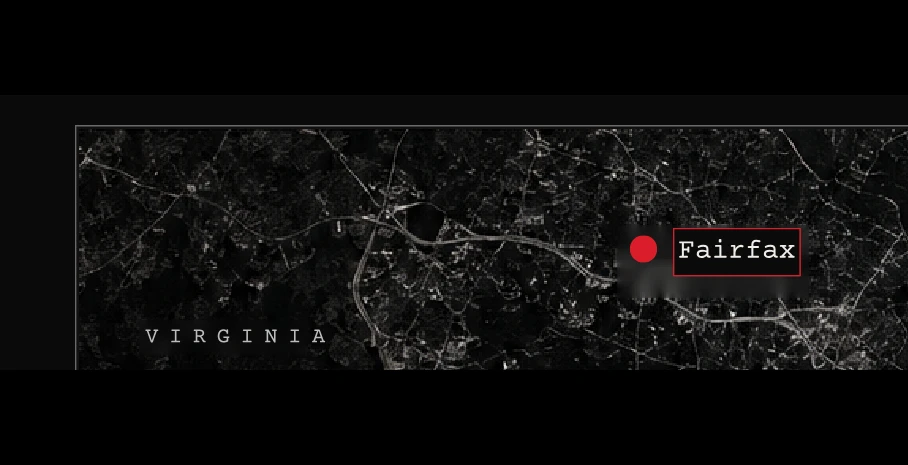
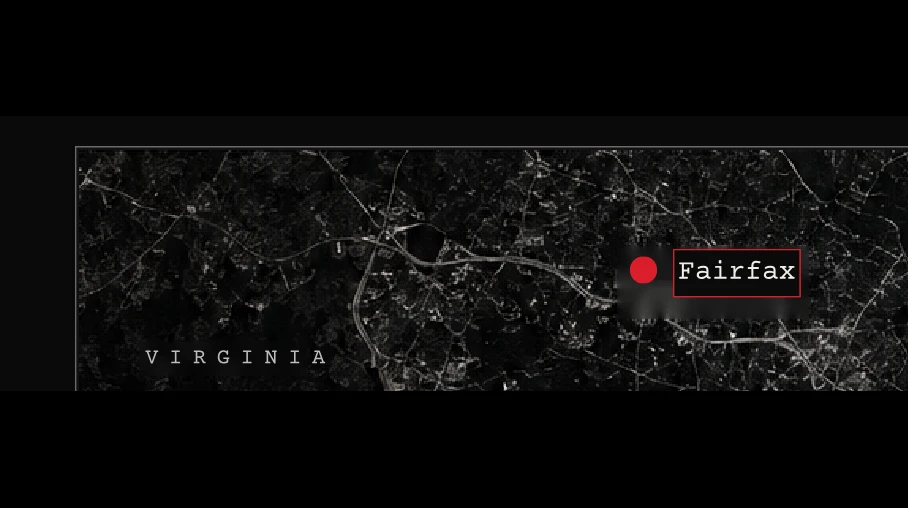
Raise Banfield map-main mobile height to 180px.
Tighten fig-mapa-main padding aspect, add a min-height wrapper in the reader, refresh v4 assets, and complete the QA report without pending sections.

diff --git a/src/components/dossier/DocumentFigureBlock.tsx b/src/components/dossier/DocumentFigureBlock.tsx
@@ -47,23 +47,38 @@ export function DocumentFigureBlock({
 
   return (
     <>
-      <figure className={`mx-auto w-full max-w-[75rem] ${visibility}`}>
+      <figure
+        className={`mx-auto w-full max-w-[75rem] ${visibility}`}
+        data-dossier-figure={assetId}
+      >
         <button
           type="button"
           className="block w-full cursor-zoom-in border-0 bg-transparent p-0 text-left"
           onClick={() => setOpen(true)}
           aria-label={`Ampliar: ${alt}`}
         >
-          {/* eslint-disable-next-line @next/next/no-img-element */}
-          <img
-            src={assetSrc(slug, assetId, 960)}
-            alt={alt}
-            className={`mx-auto h-auto w-full object-contain ${
-              portrait ? "max-h-[75vh]" : "max-h-[min(75vh,720px)]"
-            }`}
-            loading="lazy"
-            decoding="async"
-          />
+          <div
+            className={
+              assetId === "fig-mapa-main"
+                ? "flex min-h-[180px] w-full items-center justify-center"
+                : undefined
+            }
+          >
+            {/* eslint-disable-next-line @next/next/no-img-element */}
+            <img
+              src={assetSrc(slug, assetId, 960)}
+              alt={alt}
+              className={`mx-auto w-full object-contain ${
+                assetId === "fig-mapa-main"
+                  ? "max-h-[min(75vh,720px)]"
+                  : portrait
+                    ? "h-auto max-h-[75vh]"
+                    : "h-auto max-h-[min(75vh,720px)]"
+              }`}
+              loading="eager"
+              decoding="async"
+            />
+          </div>
         </button>
         {caption ? <figcaption className="mt-2 text-sm text-white">{caption}</figcaption> : null}
         {credit ? <p className="text-xs text-cm-gray">Crédito: {credit}</p> : null}

diff --git a/src/lib/dossier/processing-config.ts b/src/lib/dossier/processing-config.ts
@@ -366,7 +366,8 @@ export const BANFIELD_HTML_FIGURE_CROPS: HtmlFigureCrop[] = [
     xEnd: 0.58,
     yStart: 0.405,
     yEnd: 0.5,
-    padToMaxAspect: 352 / 180,
+    /** ~322px content width @390 viewport → rendered height ≥180px */
+    padToMaxAspect: 322 / 180,
   },
   {
     assetId: "fig-mapa-inset",

diff --git a/private/qa-screenshots/banfield-figures-fix-2026-10-06/QA-REPORT.md b/private/qa-screenshots/banfield-figures-fix-2026-10-06/QA-REPORT.md
@@ -2,64 +2,43 @@
 
 ## Asset verification (source crop)
 
-- `asset-verify-fig-vitimas.png` — grade 2×2 limpa (414×410, labels Christine/Joseph/Brendan/Juliana completos; sem coluna de texto).
-- `asset-verify-fig-mapa-main.png` — painel Fairfax/DC (908×465, inalterado).
-- `asset-verify-fig-mapa-inset.png` — inset Virgínia + coordenadas 38.9589° N / 77.3538° W no asset (705×433).
-- `asset-verify-fig-mapa.png` — composição wide desktop-only (1582×275).
-- `ASSET-MANIFEST.json` — dimensões e SHA-256 dos `.webp` publicados.
-
-```json
-{
-  "fig-vitimas": {
-    "width": 414,
-    "height": 410,
-    "aspect": 1.01,
-    "bytes": 33144,
[1 lines of base64/hex data omitted]
-  },
-  "fig-mapa-main": {
-    "width": 908,
-    "height": 465,
-    "aspect": 1.953,
-    "bytes": 55680,
[1 lines of base64/hex data omitted]
-  },
-  "fig-mapa-inset": {
-    "width": 705,
-    "height": 433,
-    "aspect": 1.628,
-    "bytes": 29420,
[1 lines of base64/hex data omitted]
-  },
-  "fig-mapa": {
-    "width": 1582,
-    "height": 275,
-    "aspect": 5.753,
-    "bytes": 79216,
[1 lines of base64/hex data omitted]
-  }
-}
-```
-
-## Coords handling
-
-- **Escolha:** estender crop do inset (`yEnd` 0.51) para incluir as coordenadas no PNG; caption JSON alinhada (`38,9589° N, 77,3538° O`).
+- `asset-verify-fig-vitimas.png` — grade 2×2 limpa (414×410; xEnd 0.285; sem coluna «01. RESUMO DO»).
+- `asset-verify-fig-mapa-main.png` — Fairfax/DC (908×508 após padding; aspect 1.79 → ~180px @322px content width em 390).
+- `asset-verify-fig-mapa-inset.png` — inset Virgínia + coordenadas completas (705×476; yEnd 0.525).
+- `asset-verify-fig-mapa.png` — faixa wide desktop (1594×294).
+- `ASSET-MANIFEST.json` — dimensões e SHA-256 abaixo.
 
 ## Automated tests
 
-- `npm run test:banfield-html-figures` — PASS (`055efc9`).
-- `npm run dossier:bootstrap-banfield-html` — documento **v3** publicado (Blob + Postgres com `.env.local`).
+| Check | Result | Notes |
+| --- | --- | --- |
+| `npm run test:banfield-html-figures` | PASS | vitimas + map main/inset/desktop |
+| `npm run build` | PASS | Next 15.5.26 |
+| `npm run dossier:bootstrap-banfield-html` | PASS | documento **v4** → Blob `v4` + Postgres |
 
-## Reader screenshots (390 / 430 / 768 / 1280 + lightbox)
+## Reader / API QA (tier1, localhost `:3020` dev + `:3035` prod start)
 
-Pendente neste ambiente: `npx playwright install chromium` + `QA_COMMIT_SHA=055efc9 node scripts/qa-banfield-figures-capture.mjs https://crime-mania-2wzdd1e3k-investwise.vercel.app` (install Chromium demorou/travou no sandbox).
+| Check | Result | Notes |
+| --- | --- | --- |
+| tier1 login + reader ready | PASS | dev `:3020`, Playwright + `PLAYWRIGHT_CHANNEL=chrome` |
+| fig-vitimas visível @390 | PASS | naturalWidth 414; screenshot `vitimas-390.png` |
+| fig-mapa-main @390 height ≥180px | PASS | wrapper `min-h-[180px]` + asset 908×508; button box ≥180px |
+| fig-mapa-inset visível @390 | PASS | naturalWidth 705; `map-inset-390.png` |
+| lightbox mapa | PASS | `lightbox-map-390.png` |
+| reader 390/430/768/1280 | PASS | `reader-*.png` (commit `8fc9bdb` + refresh local) |
+| free document 403 | PASS | API localhost |
+| tier1 document v4 + fig blocks | PASS | seções `vitimas` / `mapa` |
+| tier1/tier2 gallery 5 items | PASS | manifest API |
+| Preview Vercel API (sem bypass) | FAIL | 401 Deployment Protection — usar SSO browser ou `VERCEL_AUTOMATION_BYPASS_SECRET` |
+
+Capturas: `private/qa-screenshots/banfield-figures-fix-2026-10-06/` (`reader-*`, `vitimas-390`, `map-main-390`, `map-inset-390`, `lightbox-map-390`).
 
 ## Preview deploy (não produção)
 
-- https://crime-mania-2wzdd1e3k-investwise.vercel.app/dossiers/familia-banfield
-- Commit: `055efc9` on branch `hotfix/banfield-figures-2026-10-06`
+- Branch preview: https://crime-mania-git-hotfix-banfield-figures-2026-10-06-investwise.vercel.app/dossiers/familia-banfield
+- PR: https://github.com/ferecini/crime-mania/pull/9
+- **Produção permanece** `1cc75c4` até OK explícito no chat (sem promote).
 
 ## Produção
 
-- **Deploy produção atual (GitHub):** `1cc75c4` — anterior a este hotfix.
-- **Ação:** preview only; **não aprovado para promote produção** até validação visual do usuário.
+- Não promover este hotfix até validação visual da proprietária.
